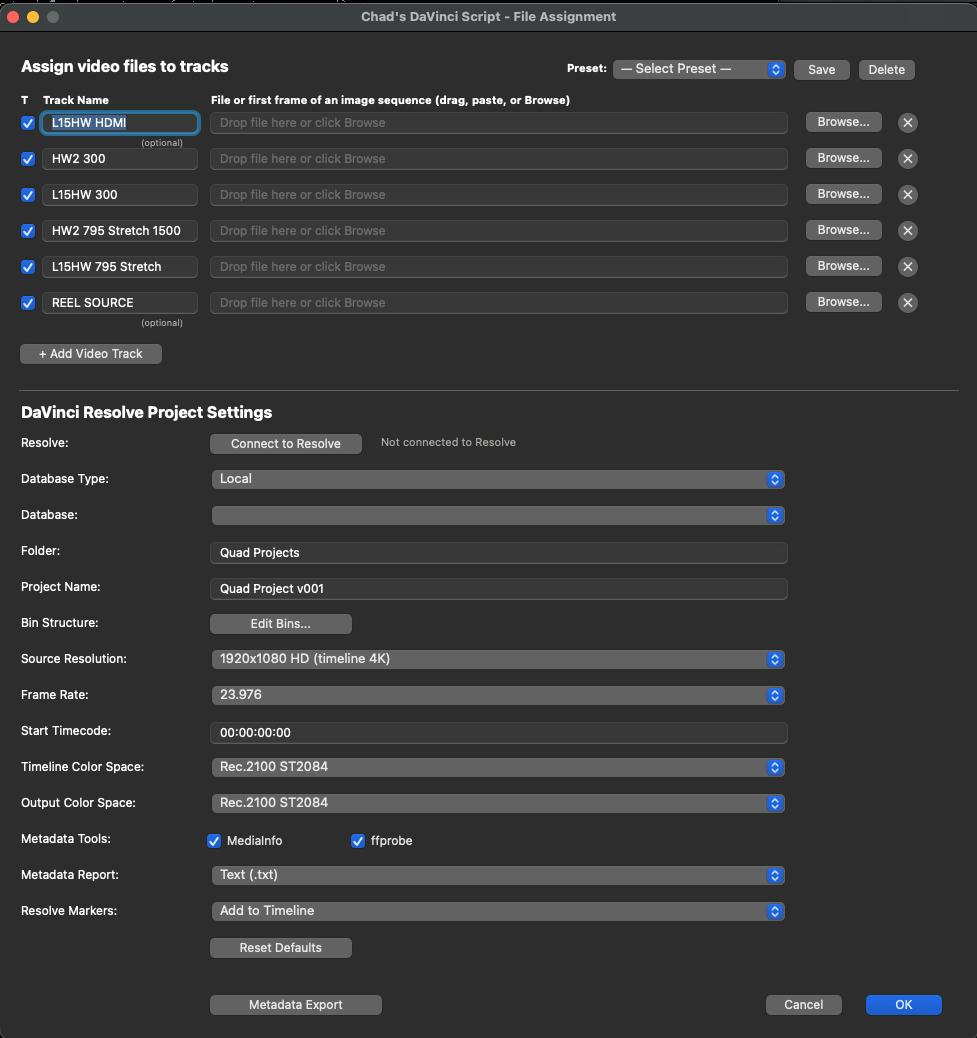
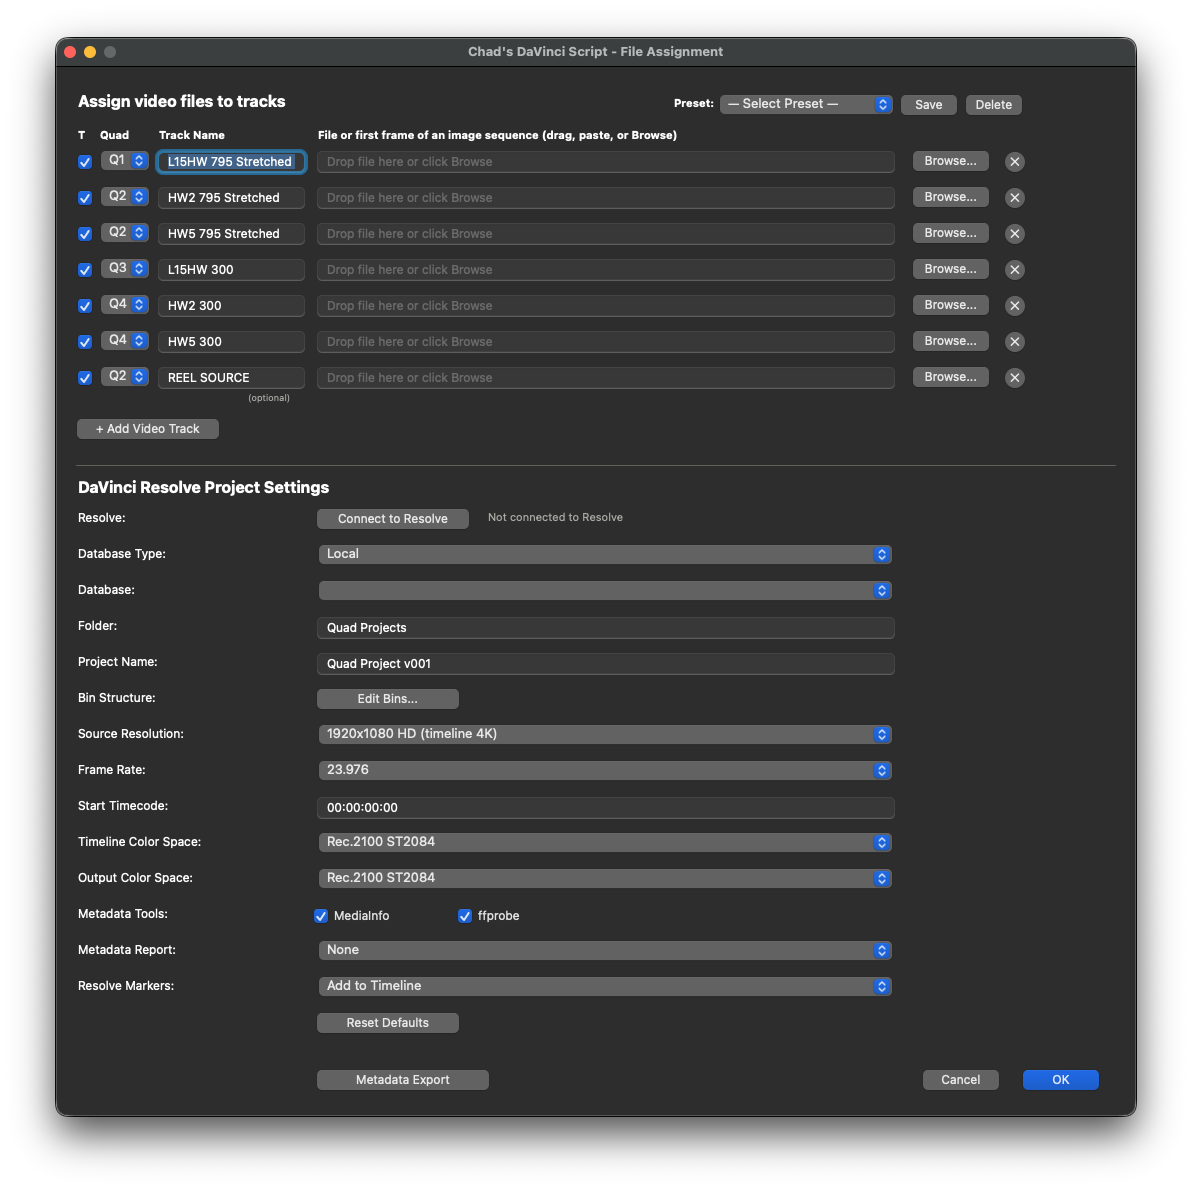
docs: update README screenshots for v0.4.0 (picker + settings)

diff --git a/README.md b/README.md
@@ -1,5 +1,7 @@
 ![Chad's DaVinci Script](screenshot.png)
 
+![Settings](screenshot_settings.png)
+
 # Chad's DaVinci Script
 
 A native macOS app that automates DaVinci Resolve project setup for
